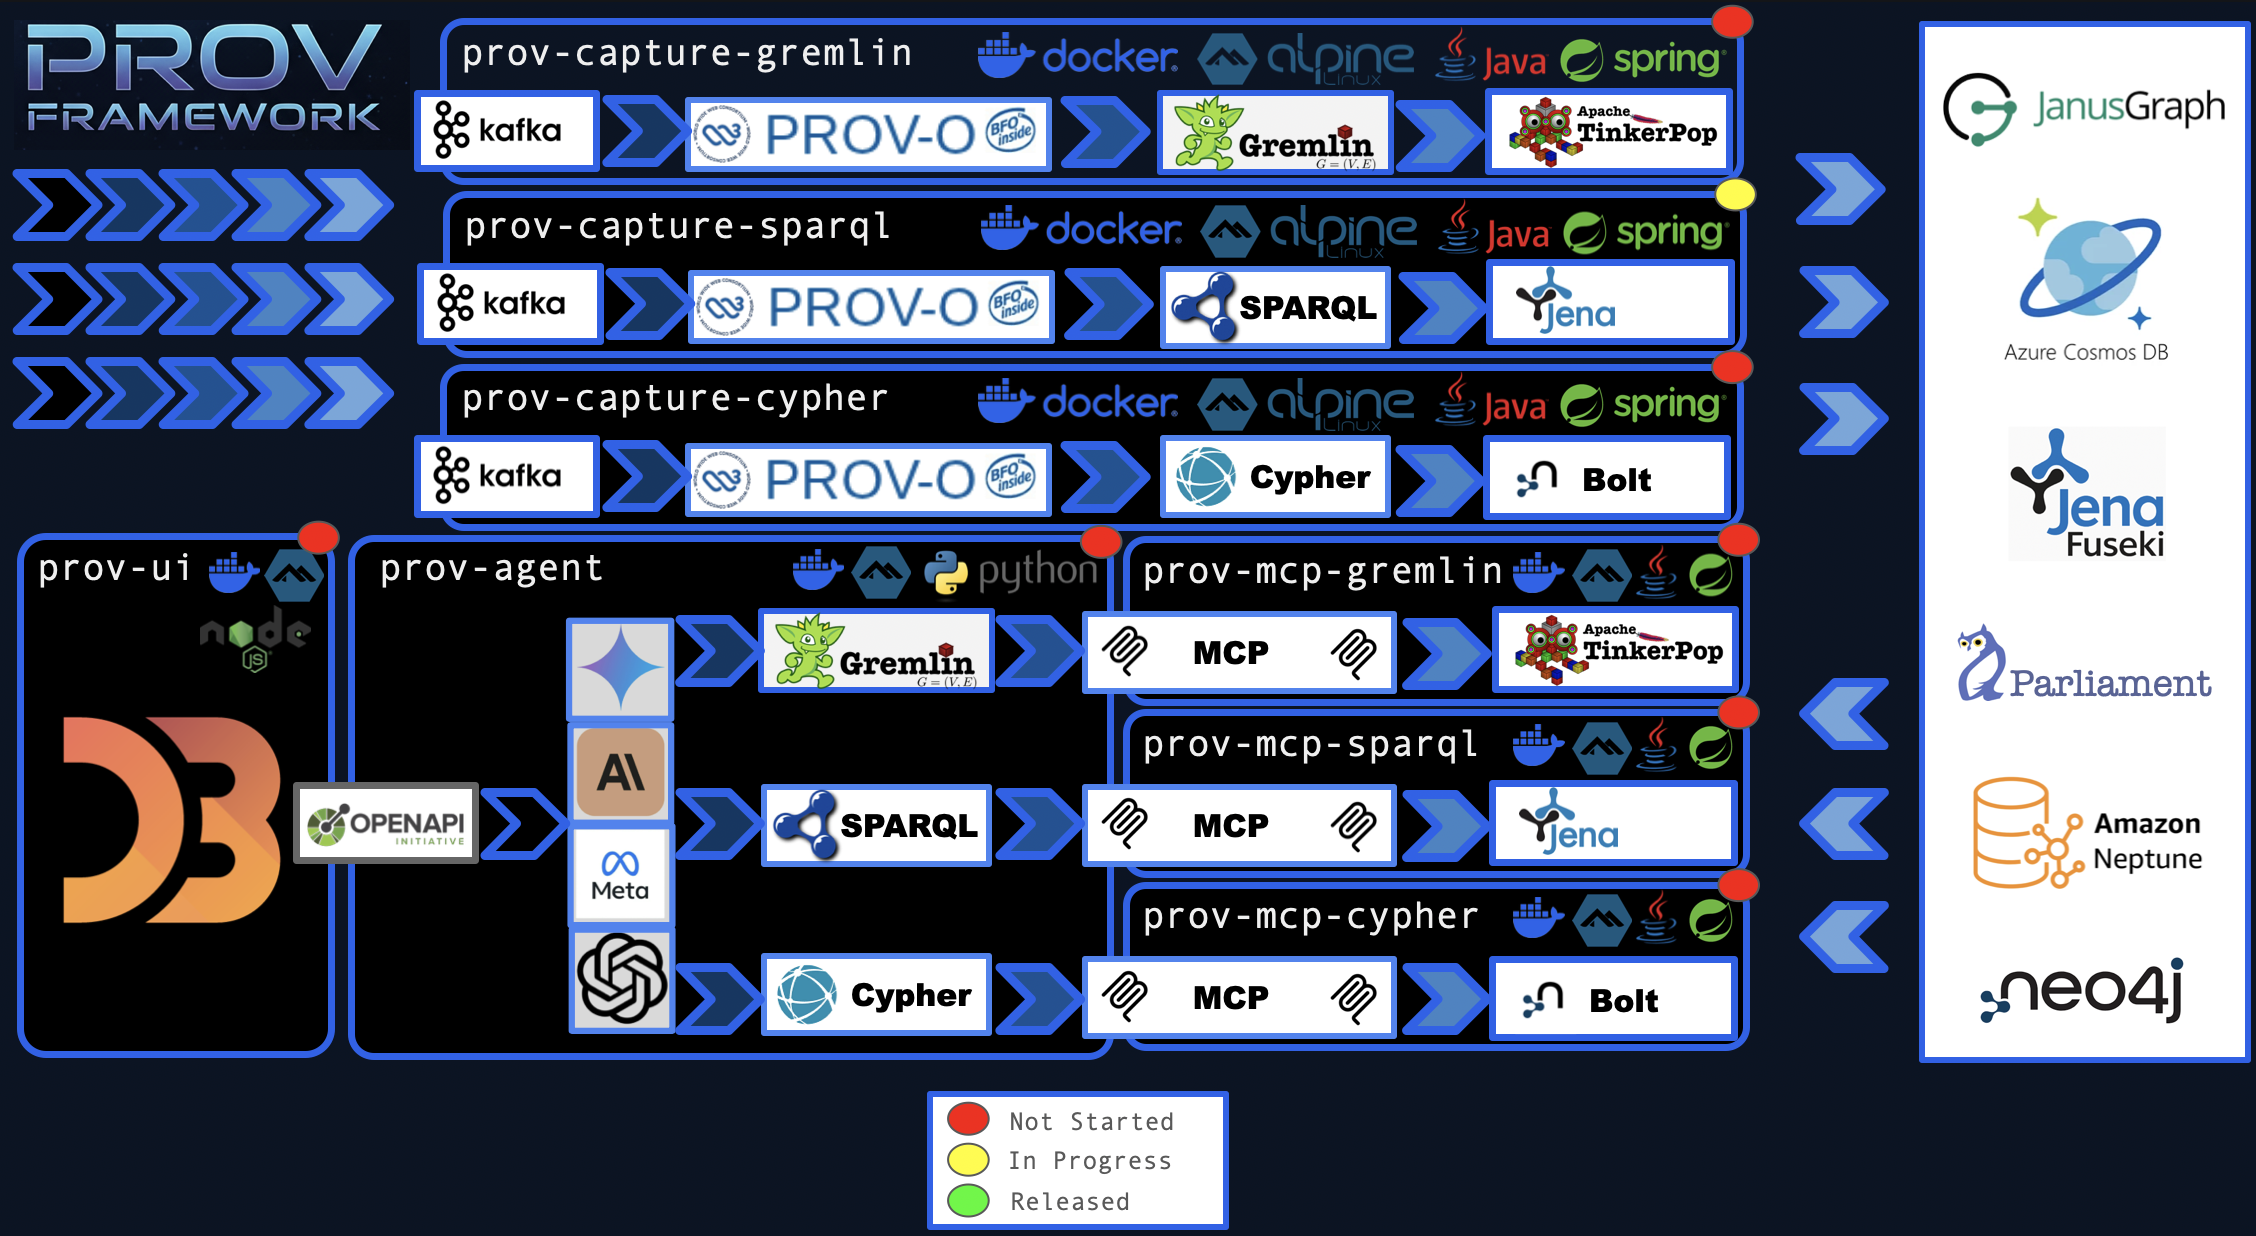
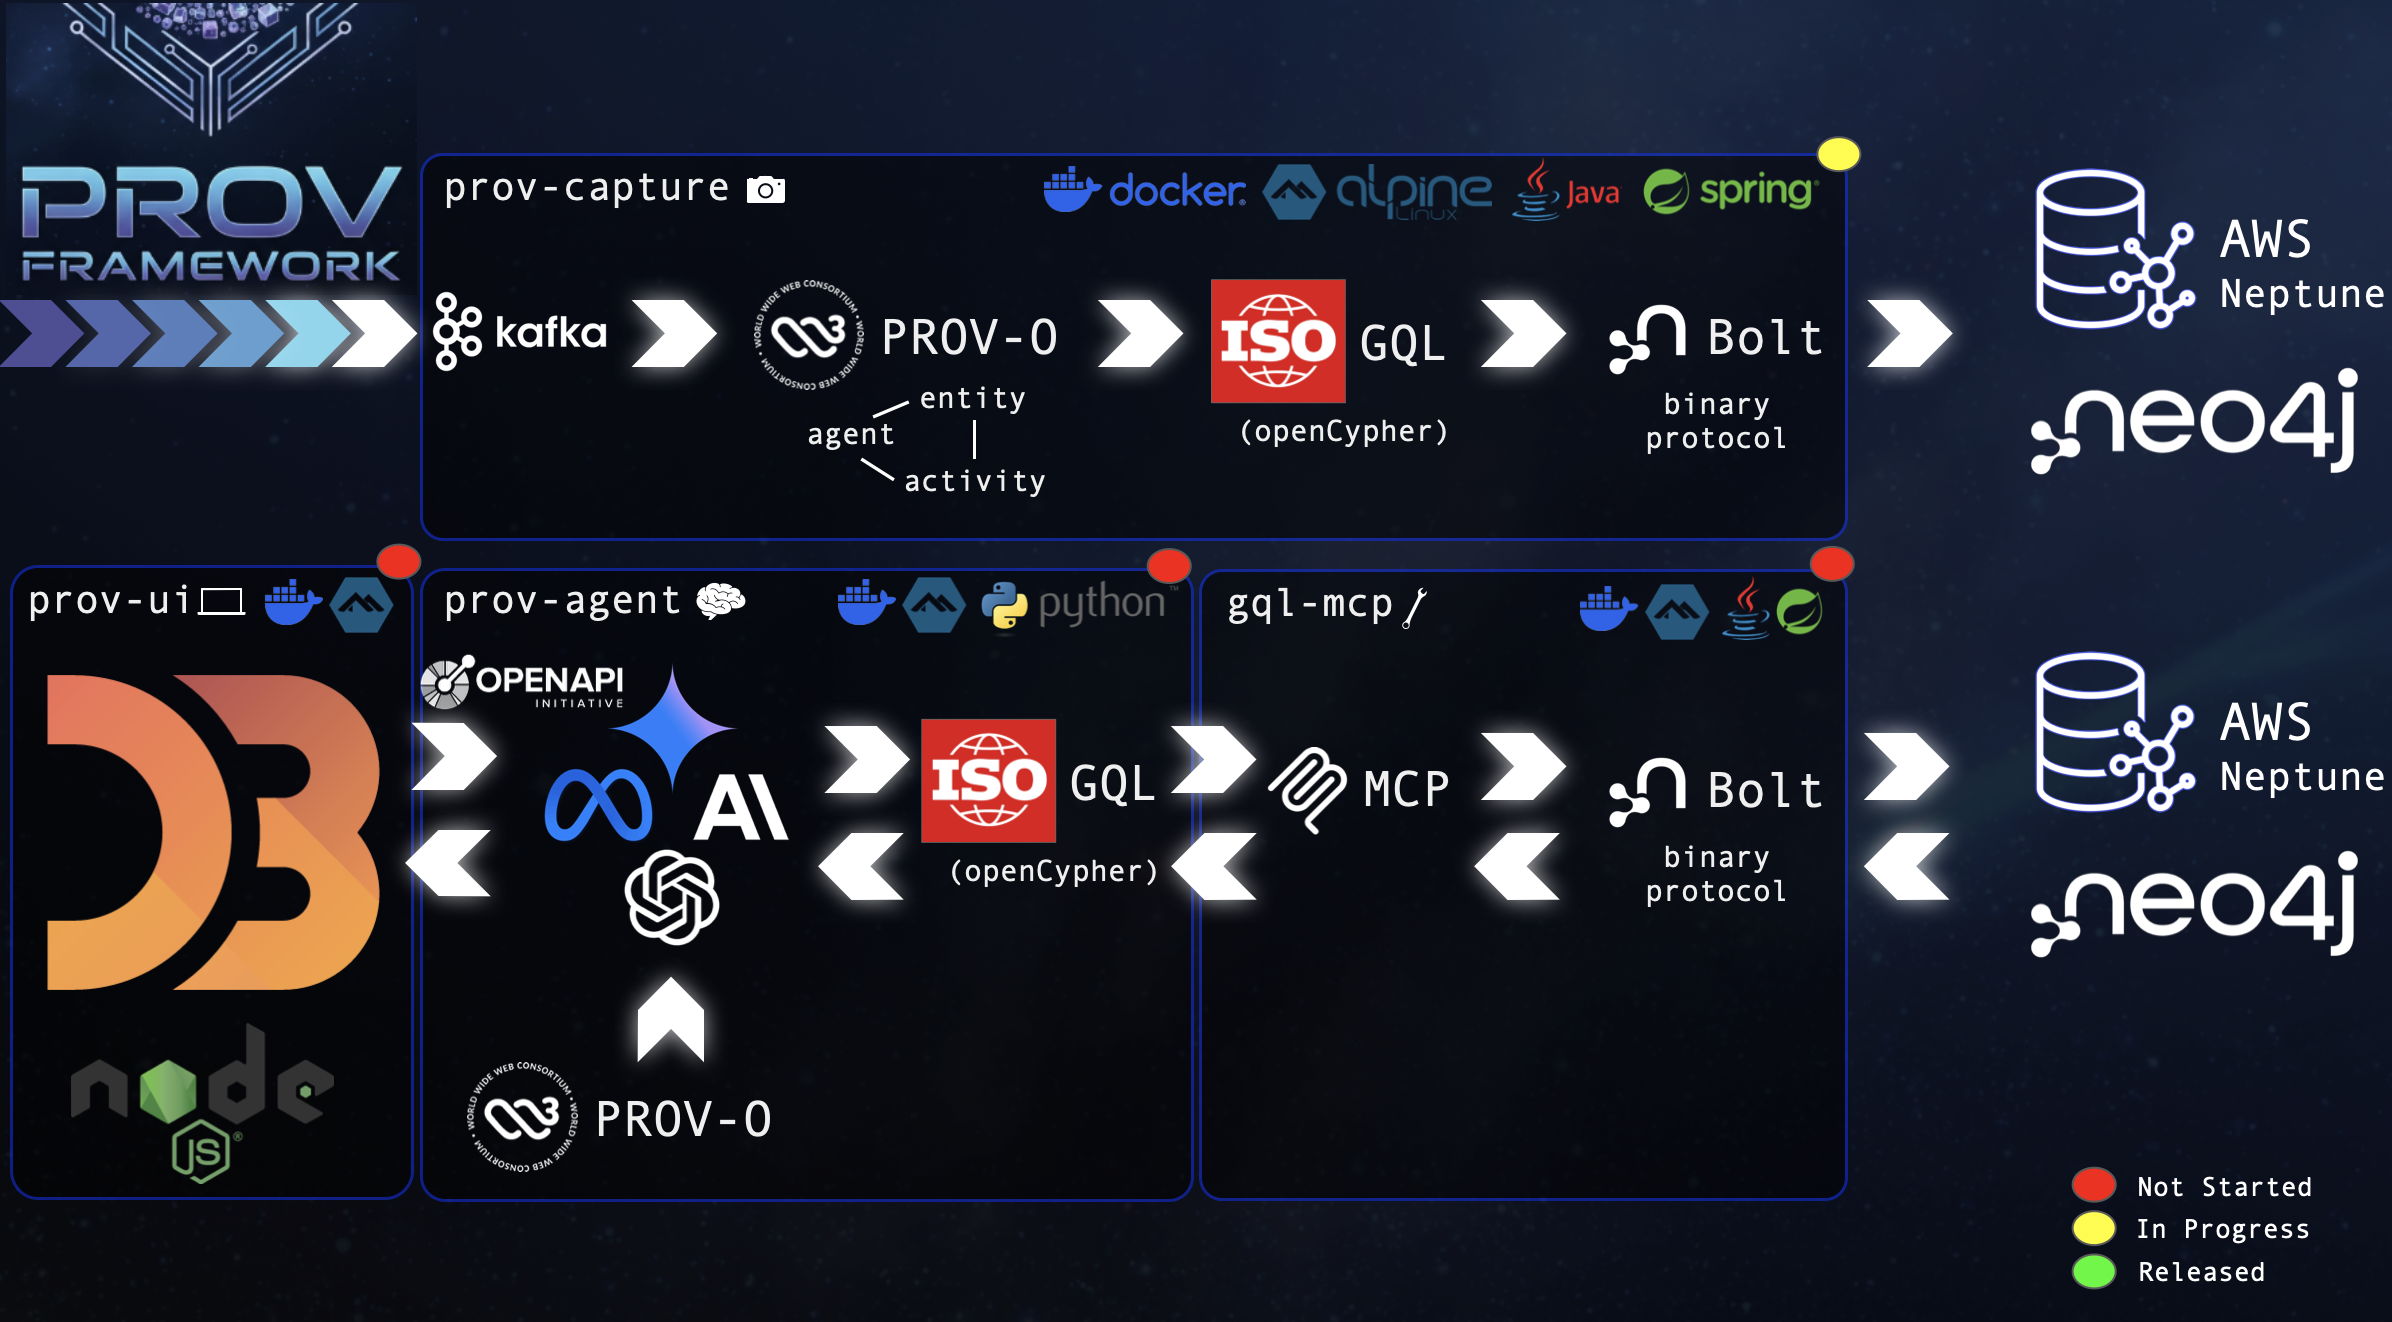
Updating direction of the project to use GQL instead of supporting Gremlin, and SPARQL.

diff --git a/profile/README.md b/profile/README.md
@@ -1,22 +1,16 @@
 # Provenance Framework
 
 ## Description
-A framework for caputuring and querying provenance data that is cloud and database vendor agnostic,  supporting both semantic and property graphs.
+A framework for caputuring and querying provenance data.
 
 ### Architecture Diagram
 ![](https://github.com/Prov-Framework/.github/blob/f6379d1afb0a8a987141ef12064f2e256f455a92/prov_framework_architecture.png)
 
 ### Why PROV-O?
-Regardless of technology, the provenance ontology (https://www.w3.org/TR/prov-o/) provides a useful set of terms and diagrams to facilitate communication and data structure. 
+Naming things is one of the two hard problems in computer science. Regardless of technology, the provenance ontology (https://www.w3.org/TR/prov-o/) provides a useful set of terms and diagrams to facilitate communication and data structure. Using an existing and already agreed upon set of terms avoids re-hashing time consuming discussions that have already taken place in the W3C. 
 
-### Why BFO?
-Aligning with BFO can provide benefits ranging from interoperability to political goodwill. More information can be found in the github repo (https://github.com/BFO-Mappings/PROV-to-BFO?tab=readme-ov-file).
+### Why GQL?
+Graph Query Language (GQL) has been formalized as the second data base language after SQL to become an ISO standard (https://www.iso.org/standard/76120.html) in 2024. Major players in the graph and cloud space are making moves to embrace the standard, to include Neo4j, Amazon, Microsoft, and Google. This is an indication of where industry is going, which will hopefully future proof this project. Many graph query languages existed before GQL, such as openCypher, Gremlin, SPARQL, AQL, PGQL, and GSQL. For this project, embracing a single standard means not having to support multiple languages, which means less long term maintenance effort to keep libraries up to date.
 
-### Why Support Both Property and Semantic Graphs?
-Often times forces out of our control dictate database and or cloud vendors. This project aims to jump start a team's data provenance journey by providing a provenance implementation in each of the major graph languages, SPARQL, Gremlin, and OpenCypher. Choose the docker images you need or fork the repos for a custom solution.
-
-### Why Use an Agent/LLM based UI?
-Engineers already have plently of tools to query and visualize graph databases, there is no reason to create another. End users typically won't know graph languages, so instead they can use any spoken or written lanugages that large language models support to query the graph. UIs are typically very custom to a customers needs, so this can serve as a starting point or easy way to provide a demo when pitching work. 
-
-### Why Give the Agent/LLM DB Access Instead of API Access?
-By allowing the agent to query using a graph language instead of having it interact with a predefined REST or GraphQL API, the agent will be able to answer a larger variety of questions. The agent will be provided the provenance ontology, which will help it build more successful queries. The MCP servers will enforce any needed constraints to include verifying queries are read only and have reasonable limits.
+### Why not RDF and SPARQL?
+Rule based reasoning and globally unique identifiers are not needed for this project. PROV-O is the only ontology being used, so prefixing class and predicate names to differentiate from terms in other ontologies is not required. Data processing speed is important. SPARQL endpoints typically support http REST POST calls, where as most GQL endpoints support the bolt protocol. The bolt protocol transfers data as binary and is stateful, where-as REST calls transfer plain text and are stateless. Binary is more compact, thus more effecient than transmitting plain text. Stateful connections keep the connection open for many back and forth communications, avoiding the overhead of establishing a connection and authenticating for every call to the database. RDF4J does support the application/x-binary-rdf type, but not all semantic graph knowledge bases support binary. Lastly, popularity is important if you find yourself in positions where larger corporate forces control database vendor selection. When looking at indicators like docker hub downloads, property graphs have much higher adoption rates than semantic graphs.       
